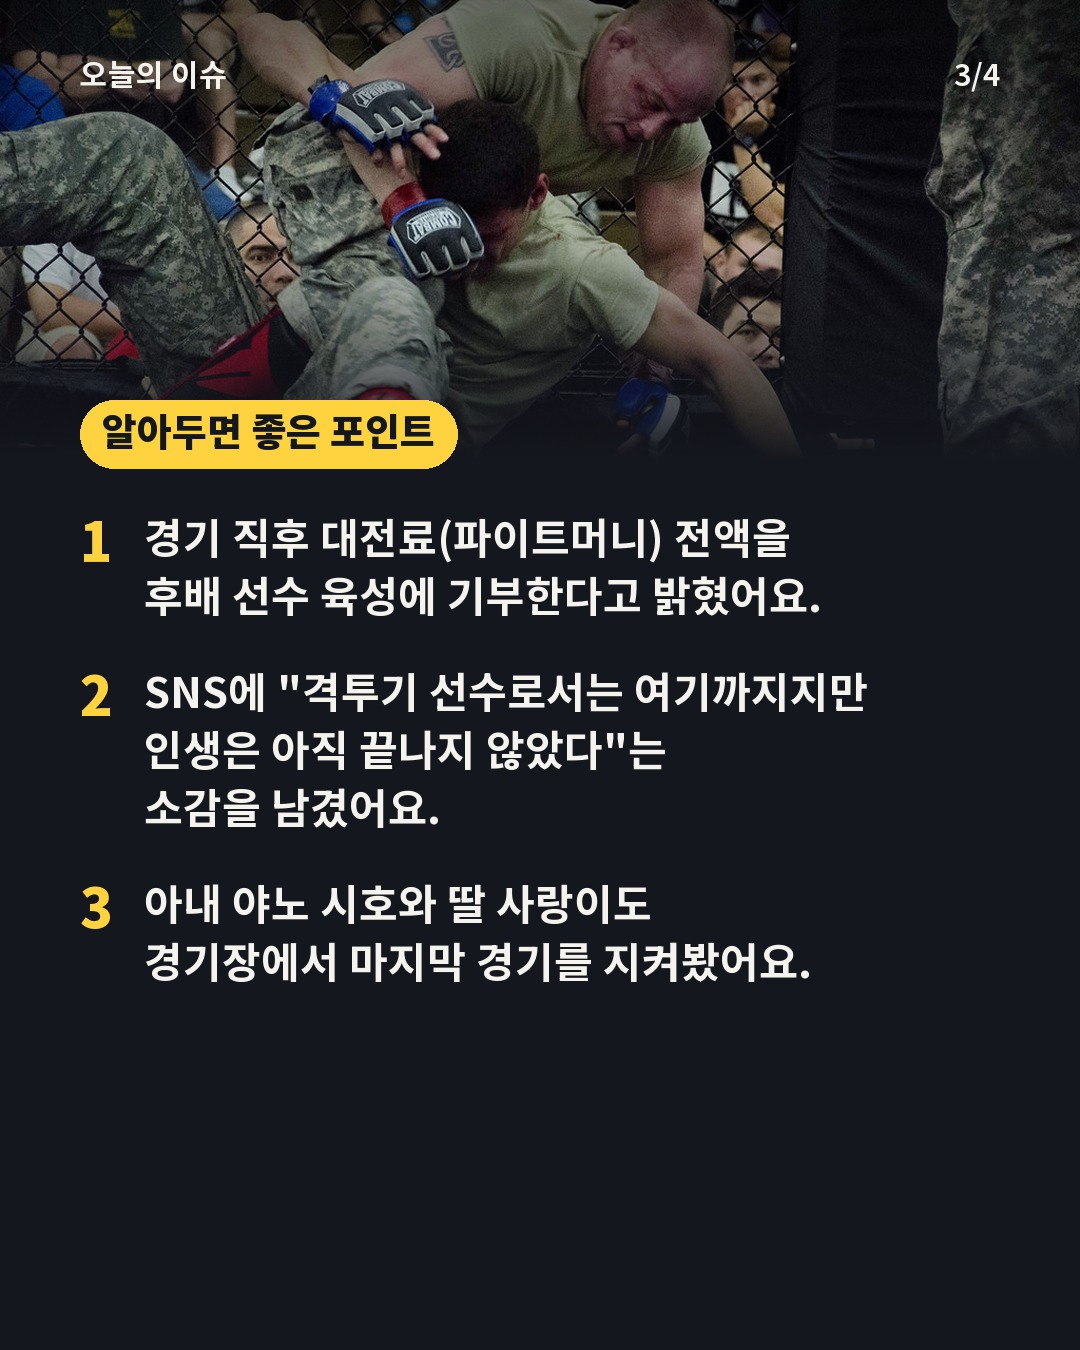
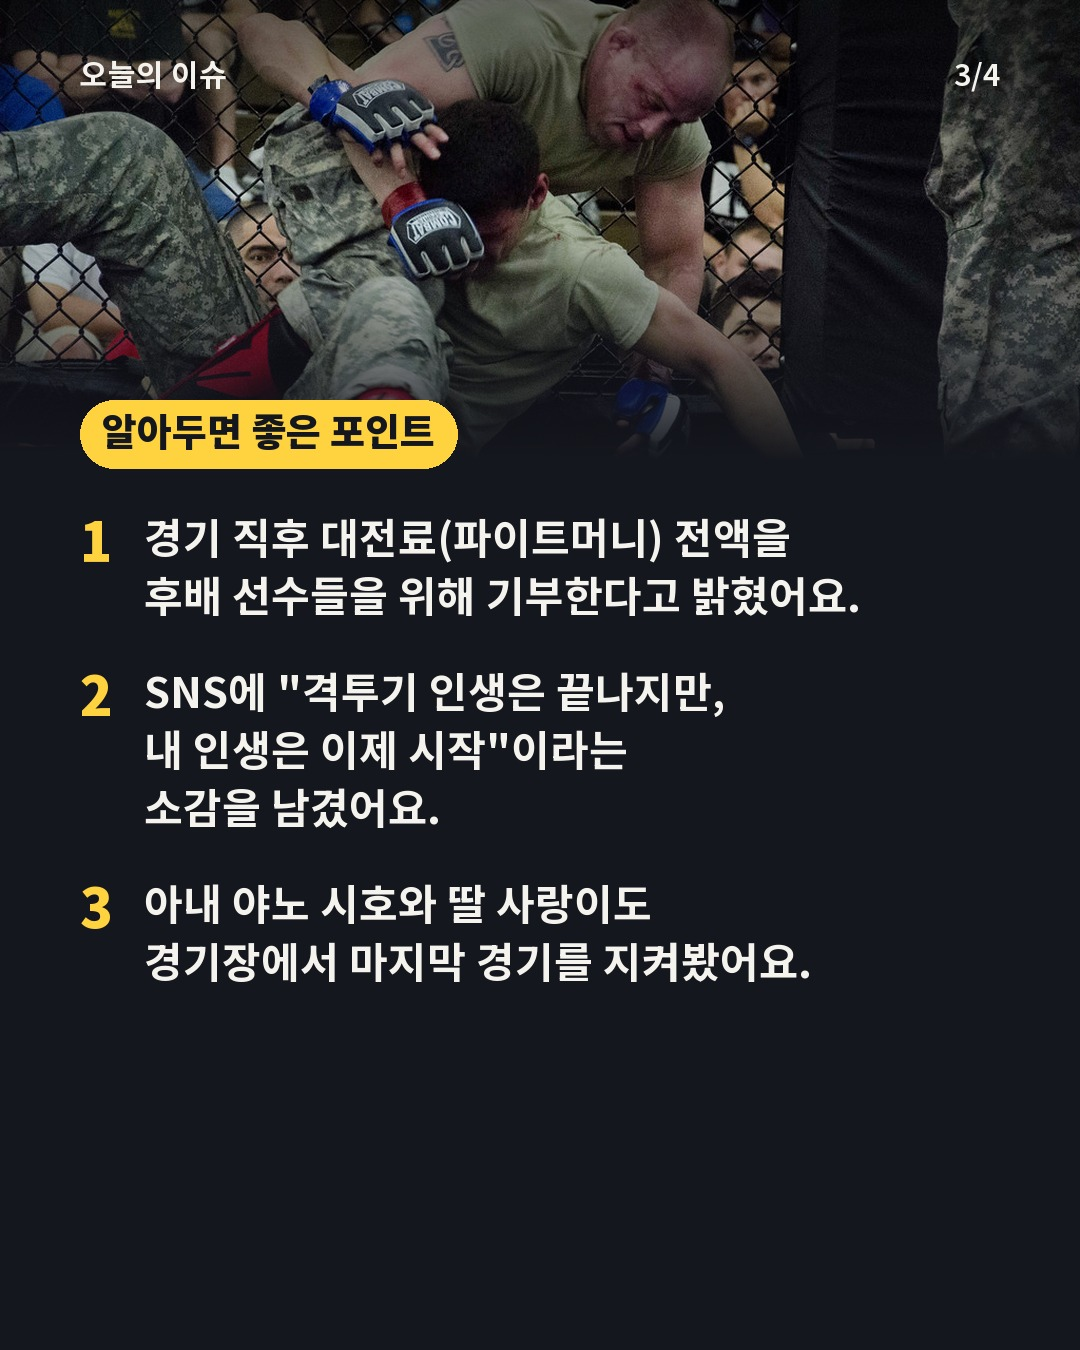
trend 2026-11-25-sample: 검수 지적 반영 (대전 실점, 추성훈 인용·은퇴전, CFTC 제목, CTA 문장)

Changed region(s): [[0.1222, 0.4978, 0.825, 0.5911], [0.275, 0.4044, 0.7944, 0.4667]]

diff --git a/trend/2026-11-25-sample/qa.md b/trend/2026-11-25-sample/qa.md
@@ -1,0 +1,16 @@
+# 검수표 · 2026-11-25-sample (검증·품질관리부, 독립 에이전트)
+
+실제 검색: WebSearch 11회, Google News RSS 14개 질의(5개 파싱 실패), WebFetch 6회, Wikimedia API 10회 성공.
+
+1. 대전 3-2 베이징 궈안: 70점, 보류 → "후반 2골 실점"은 오류(실제 전반 36분·후반 8분 1골씩). 표지 전광판이 다른 경기(0:1)라 오해 소지. 출처 OSEN 미확인.
+   - 수정 반영: 카드2·캡션 "전·후반 1골씩", 표지 사진 위치 이동, 출처 뉴스핌으로 교체.
+   - ⚠ 수정 전 버전이 사장님 승인으로 이미 게시됨 (https://www.instagram.com/p/DgIXNOLCbhQ/)
+2. 추성훈 은퇴전: 68점, 보류 → "두 선수 모두의 은퇴전" 확인 불가, SNS 인용 의역, "후배 육성" 각색.
+   - 수정 반영: "16년 만의 재대결", 인용 "격투기 인생은 끝나지만, 내 인생은 이제 시작", "후배 선수들을 위해 기부", 출처 교체, 제목 "자신을 이긴".
+   - ⚠ 수정 전 버전이 사장님 승인으로 이미 게시됨 (https://www.instagram.com/p/DgIXyLMnNDL/)
+3. 미국 CFTC: 80점, 보류(제목만) → "미국이 비트코인을 '돈'으로" 주체·범위 과장.
+   - 수정 반영: 제목 "비트코인, 미국 거래소 '운영 자금'으로 인정?", 캡션 "규제기관 실무진", "요건 갖춘 스테이블코인".
+   - 게시 전에 멈춤 → 수정본으로 다시 승인 요청.
+공통: 캡션 CTA 문장 끊김("보내주고.") 수정. CC BY-SA 사진은 변경(자르기·글자 합성) 표기 권장.
+
+최종 판정: 3번 게시 가능(수정 반영). 1·2번은 이미 게시되어 캡션 수정 필요.
